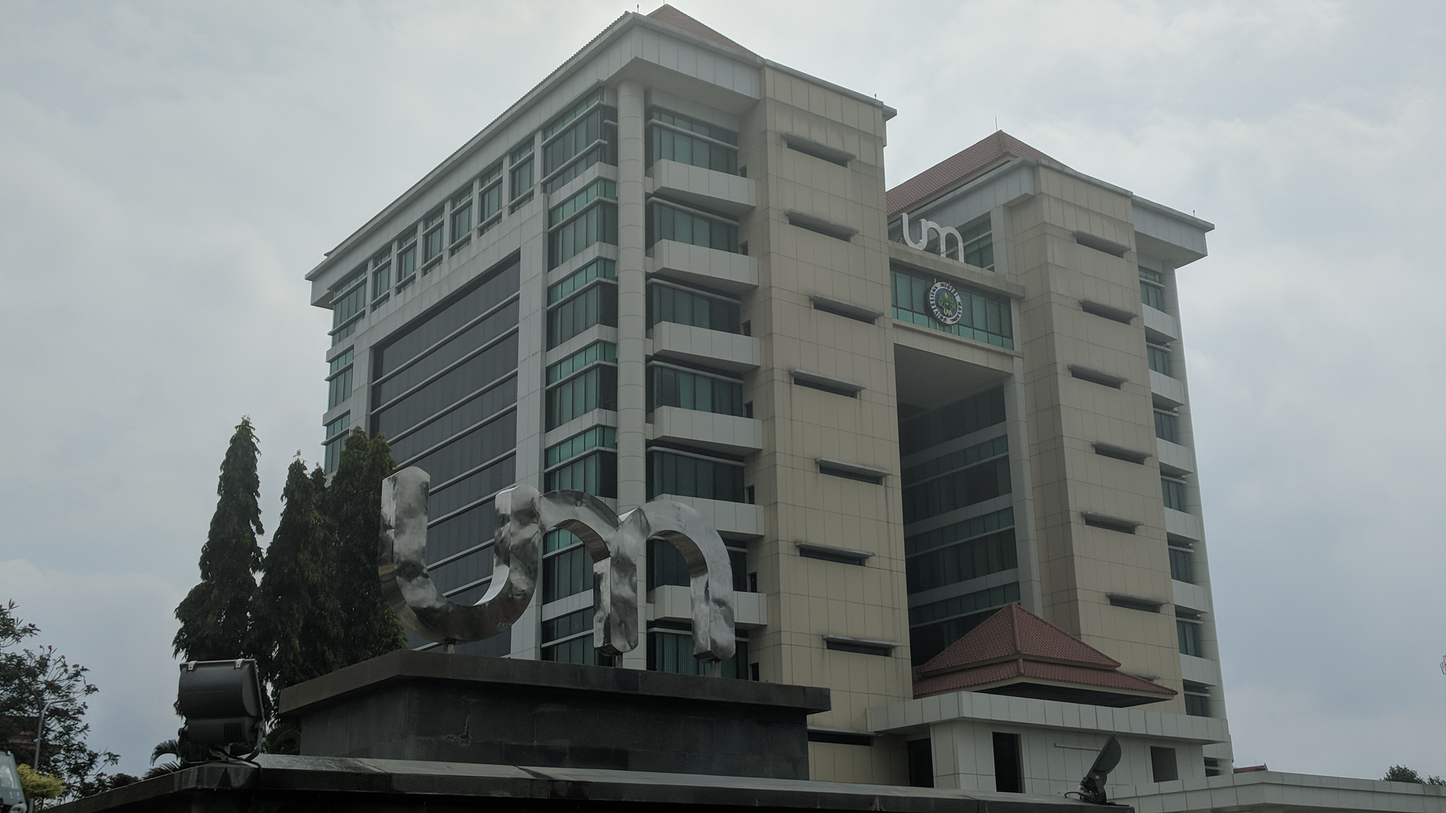
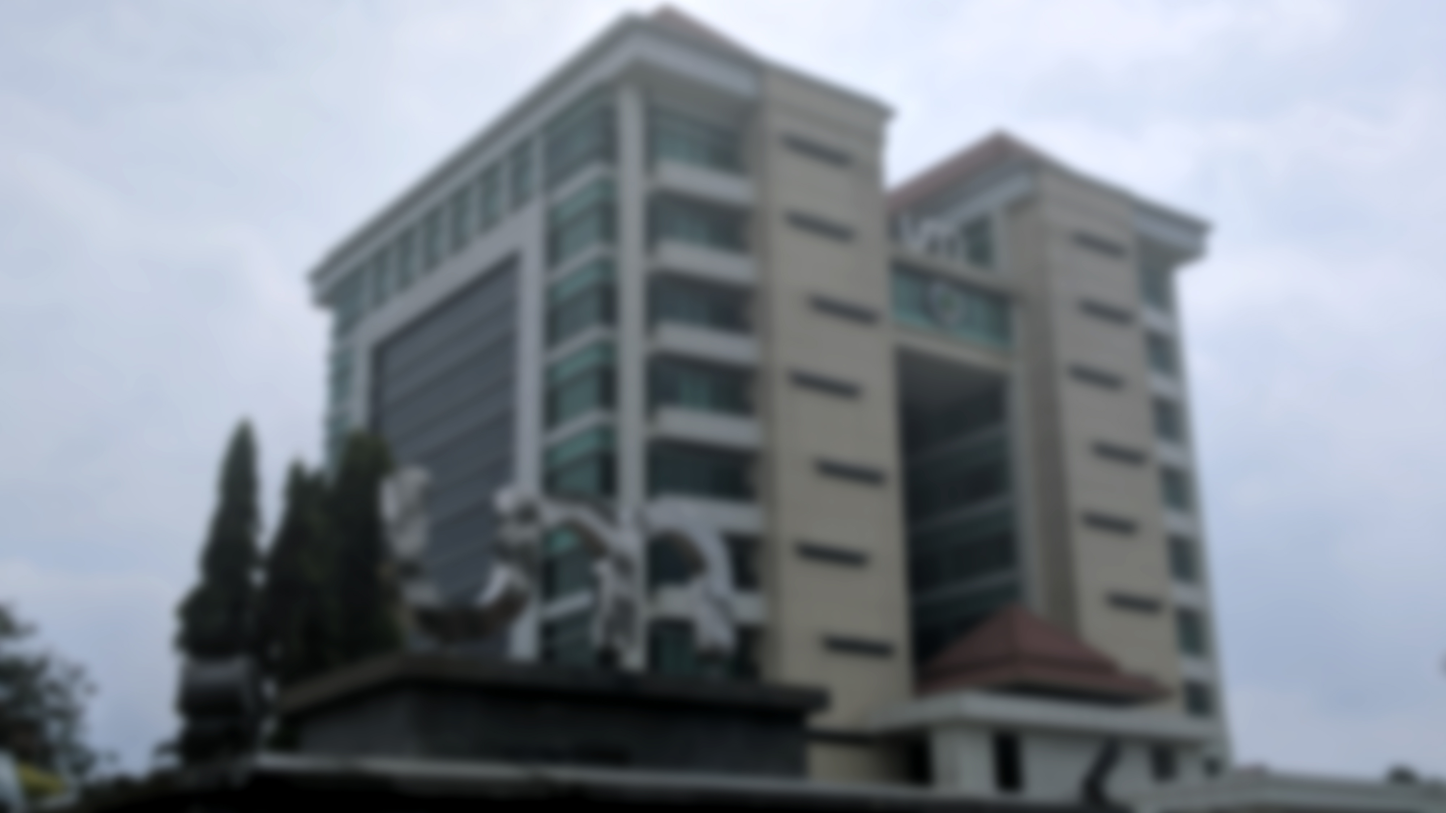
background

diff --git a/public/css/assessment/flex.css b/public/css/assessment/flex.css
@@ -14,14 +14,6 @@
     height: 100%;
     width: 100%;
     z-index:-999;
-
-    filter: blur(8px);
-    -webkit-webkit-filter: blur(8px);
-    -moz-webkit-filter: blur(8px);
-    -ms-webkit-filter: blur(8px);
-    -o-webkit-filter: blur(8px);
-    -khtml-webkit-filter: blur(8px);
-    webkit-filter: blur(8px);
 }
 
 
